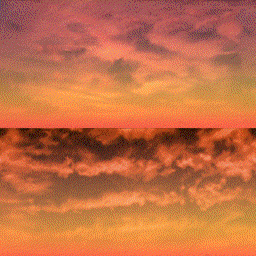
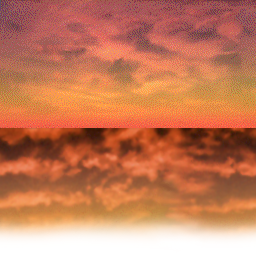
Add skybox. Patch by Gerard Krol. The maximum allowed camera tilt towards the sky has been increased to allow easier view of the new skyline.
git-svn-id: svn+ssh://svn.gna.org/svn/warzone/trunk@1179 4a71c877-e1ca-e34f-864e-861f7616d084

diff --git a/lib/ivis_opengl/piefunc.c b/lib/ivis_opengl/piefunc.c
@@ -40,6 +40,7 @@
 #include "lib/ivis_common/piestate.h"
 #include "piematrix.h"
 #include "pietexture.h"
+#include "lib/ivis_common/piemode.h"
 #include "lib/ivis_common/pieclip.h"
 
 /***************************************************************************/
@@ -146,6 +147,99 @@ void pie_TransColouredTriangle( PIEVERTEX *vrt, UDWORD rgb )
 	}
         glEnd();}
 
+/* ---------------------------------------------------------------------------------- */
+
+void pie_DrawSkybox(iView player, iView camera, float rotation, int texpage, int u, int v, int w, int h)
+{
+	const int scale = 10000;
+	const float r = 1.0f; // just because it is shorter than 1.0f
+
+	// save previous states
+	BOOL oldFogState = glIsEnabled(GL_FOG);
+	BOOL oldAlphaTestState = glIsEnabled(GL_ALPHA_TEST);
+
+	// set up matrices and textures
+	//pie_SetGeometricOffset((iV_SCREEN_WIDTH >> 1), geoOffset);
+	pie_PerspectiveBegin();
+
+	// Push identity matrix onto stack
+	pie_MatBegin();
+
+	// Now, scale the world according to what resolution we're running in
+	pie_MatScale(pie_GetResScalingFactor());
+
+	// Set the camera position
+	pie_MATTRANS(camera.p.x, camera.p.y, camera.p.z);
+
+	// Rotate for the player and for the wind
+	pie_MatRotZ(player.r.z);
+	pie_MatRotX(player.r.x);
+	pie_MatRotY(player.r.y + DEG(1) * rotation);
+
+	// Apply scale matrix
+	glScalef(scale,scale / 2.0,scale);
+
+	// move it somewhat below ground level for the blending effect
+	glTranslatef(0, -1 * r / 4, 0);
+
+	// Standard color/alpha for texturing
+	glColor4f(1.0, 1.0, 1.0, 1.0f);
+
+	// Set the texture page
+	pie_SetTexturePage(texpage);
+
+	// the texture wraps over at the edges (repeat)
+	glTexParameterf(GL_TEXTURE_2D, GL_TEXTURE_WRAP_S, GL_REPEAT);
+	glTexParameterf(GL_TEXTURE_2D, GL_TEXTURE_WRAP_T, GL_CLAMP);
+
+	// fog should not affect the sky
+	glDisable(GL_FOG);
+
+	// enable alpha
+	glEnable(GL_BLEND);
+	glBlendFunc(GL_SRC_ALPHA, GL_ONE_MINUS_SRC_ALPHA);
+
+	// for the nice blend of the sky with the fog
+	glDisable(GL_ALPHA_TEST);
+
+	// It is behind everything
+	glDisable(GL_DEPTH_TEST);
+
+	glBegin(GL_QUAD_STRIP);
+		// Front
+		glTexCoord2i(u, v + h);		glVertex3f(-r, 0, r); // bottom left
+		glTexCoord2i(u, v); 			glVertex3f(-r, r, r); // top left
+		glTexCoord2i(u + w * 2, v + h);	glVertex3f( r, 0, r); // bottom right
+		glTexCoord2i(u + w * 2, v); 	glVertex3f( r, r, r); // top right
+
+		// Right
+		glTexCoord2i(u + w * 4, v + h);	glVertex3f( r, 0,-r); // bottom r
+		glTexCoord2i(u + w * 4, v); 	glVertex3f( r, r,-r); // top r
+
+		// Back
+		glTexCoord2i(u + w * 6, v + h);	glVertex3f(-r, 0, -r); // bottom right
+		glTexCoord2i(u + w * 6, v); 	glVertex3f(-r, r, -r); // top right
+
+		// Left	
+		glTexCoord2i(u + w * 8, v + h);	glVertex3f(-r, 0, r); // bottom r
+		glTexCoord2i(u + w * 8, v); 	glVertex3f(-r, r, r); // top r
+	glEnd();
+ 	
+	// Load Saved State
+	pie_MatEnd();
+	pie_PerspectiveEnd();
+
+	if (oldFogState)
+	{
+		glEnable(GL_FOG); 
+	}
+	if (oldAlphaTestState)
+	{
+		glEnable(GL_ALPHA_TEST);
+	}
+	glDisable (GL_BLEND);
+	glEnable(GL_DEPTH_TEST);
+}
 
 /* ---------------------------------------------------------------------------------- */
 

diff --git a/src/display3d.c b/src/display3d.c
@@ -425,6 +425,7 @@ BOOL		bPlayerHasHQ = FALSE;
 	}
 
 	pie_Begin3DScene();
+	renderSky();
    	displayTerrain();
 	pie_BeginInterface();
 	updateLightLevels();
@@ -609,7 +610,6 @@ BOOL		bPlayerHasHQ = FALSE;
 
 /* Draws the 3D textured terrain */
 void displayTerrain(void)
-
 {
 //	SDWORD	x,y;
 	tileZ = 8000;
@@ -4432,60 +4432,22 @@ BOOL	bWaterTile;
 
 }
 
-/*
-HACK for IAN VISIT, but works....
-FIXME: This is function is not used. Should it be? - Per
-*/
-void renderSky(void)
+// Render a skybox
+void renderSky()
 {
-	const int texPage = 0;
-	SDWORD	skyShift=2; // Initialized with 2 because former +=2 below
+	static float wind = 0;
 
-	SDWORD index=0,width=0;
-	//skyShift += 2;
-
-	index= (player.r.y + skyShift)/ 20;
-
-	while (index > 0)
+	// Let the winds blow!
+	if(!gamePaused())
 	{
-		index -=256;
+		wind += 0.5*frameTime2/GAME_TICKS_PER_SEC;
+   		if(wind >= 360)
+   		{
+   			wind = 0;
+   		}
 	}
-
-	while (index < 640)
-	{
-		if(index >=384)
-		{
-			width = 640-index;
-		}
-		else
-		{
-			width = 256;
-		}
-		iV_UniBitmapDepth(texPage,0,0,width,128,index,0,width,192,200,65000);
-		index += 256;
-	}
-
-	index= (player.r.y+(skyShift/2))/ 15;
-
-	while (index > 0)
-	{
-		index -=256;
-	}
-
-	while (index < 640)
-	{
-		if(index >=384)
-		{
-			width = 640-index;
-		}
-		else
-		{
-			width = 256;
-		}
-		iV_UniBitmapDepth(texPage,0,128,width,127,index,0,width,192,200,64000);
-		index += 256;
-	}
-}
+	pie_DrawSkybox(player, camera, wind, 30, 0, 128, 256, 128);
+};
 
 /* Flattens an imd to the landscape and handles 4 different rotations */
 iIMDShape	*flattenImd(iIMDShape *imd, UDWORD structX, UDWORD structY, UDWORD direction)

diff --git a/lib/ivis_common/piefunc.h b/lib/ivis_common/piefunc.h
@@ -41,6 +41,7 @@ extern UBYTE pie_ByteScale(UBYTE a, UBYTE b);
 extern void	pie_CornerBox(SDWORD x0, SDWORD y0, SDWORD x1, SDWORD y1, UDWORD colour,
 					  UBYTE a, UBYTE b, UBYTE c, UBYTE d);
 extern void	pie_TransColouredTriangle( PIEVERTEX *vrt, UDWORD rgb );
+extern void pie_DrawSkybox(iView player, iView camera, float rotation, int texpage, int u, int v, int w, int h);
 extern void	pie_DrawViewingWindow( iVector *v, UDWORD x1, UDWORD y1, UDWORD x2, UDWORD y2,UDWORD colour);
 
 #endif // _piedef_h

diff --git a/src/display.h b/src/display.h
@@ -224,7 +224,7 @@ extern BOOL	getRotActive( void );
 extern SDWORD	getDesiredPitch( void );
 extern void	setDesiredPitch(SDWORD pitch);
 
-#define MAX_PLAYER_X_ANGLE	(-14)
+#define MAX_PLAYER_X_ANGLE	(-7)
 #define MIN_PLAYER_X_ANGLE	(-50)
 
 #define	HIDDEN_FRONTEND_WIDTH	(640)
